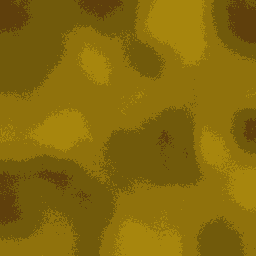
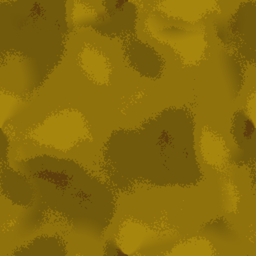
minor fixes

diff --git a/Project1/params.cpp b/Project1/params.cpp
@@ -1,9 +1,9 @@
 #include "params.h"
 
 // ===== ILE CZEGO W AKWARIUM =====
-int NUM_FISHES  = 15;   // liczba rybek
-int NUM_ROCKS   = 10;   // liczba kamieni
-int NUM_PLANTS  = 10;   // liczba roslin (kazda to kepa kilku lodyg)
+int NUM_FISHES  = 21;   // liczba rybek
+int NUM_ROCKS   = 13;   // liczba kamieni
+int NUM_PLANTS  = 13;   // liczba roslin (kazda to kepa kilku lodyg)
 int NUM_BUBBLES = 28;   // liczba babelkow
 
 // ===== JASNOSC =====
@@ -25,4 +25,7 @@ float     MODEL_SCALE = 0.9f;                            // rozmiar
 float     MODEL_ROT_X = 90.0f;                           // 90 = lezy poziomo
 
 // ===== WIELKOSC AKWARIUM =====
-float aquariumScale = 4.0f;     // 1.0 = bazowa; wiecej = wieksze akwarium (cala scena skaluje sie razem)
+float aquariumScale = 1.0f;     // 1.0 = bazowa; wiecej = wieksze akwarium (cala scena skaluje sie razem)
+
+// ===== BABELKI (efekt mydlanej banki) =====
+float bubbleClear = 1.0f;       // 0 = jak dawniej; 1 = srodek przezroczysty, widac tylko rant

diff --git a/Project1/params.h b/Project1/params.h
@@ -32,3 +32,7 @@ extern float     MODEL_ROT_X;
 
 // Wielkosc calego akwarium (skaluje cala scene: 1.0 = bazowa, 1.5 = wieksze itd.)
 extern float aquariumScale;
+
+// Efekt "mydlanej banki": 0 = babelki jak dawniej (rownomierne), 1 = srodek prawie
+// calkiem przezroczysty, widac glownie swiecacy rant.
+extern float bubbleClear;

diff --git a/Project1/main.cpp b/Project1/main.cpp
@@ -191,6 +191,7 @@ void initOpenGLProgram(GLFWwindow* window) {
         glm::vec3 randomOffset(getRandomFloat(0.0f, 4.8f), getRandomFloat(0.0f, 2.5f), getRandomFloat(0.0f, 2.8f));
         glm::vec3 pos = corner + randomOffset;
         glm::vec3 vel(getRandomFloat(-2.0f, 2.0f), getRandomFloat(-0.5f, 0.5f), getRandomFloat(-2.0f, 2.0f));
+  
         float r = 0.0f; float g = getRandomFloat(0.0f, 1.0f); float b = getRandomFloat(0.0f, 1.0f);
         if (r > 0.6f && b > 0.6f && g < 0.5f) { g = 0.8f; }   // bez koloru rozowego
         aquariumFishes.push_back(new Fish(pos, glm::vec3(r, g, b), vel));
@@ -271,6 +272,7 @@ void drawScene(GLFWwindow* window, float angle_x, float angle_y, float current_f
     glUniform1f(sp->u("pulseStrength"), pulseStrength);
     glUniform1f(sp->u("pulseSpeed"), pulseSpeed);
     glUniform1f(sp->u("sceneScale"), aquariumScale);
+    glUniform1f(sp->u("bubbleClear"), bubbleClear);
 
     // Kolory diod po obrocie odcienia (klawisz i); pozycje skalujemy razem ze scena
     glm::vec3 effCol1 = rotateHue(kolor1, hueOffset);